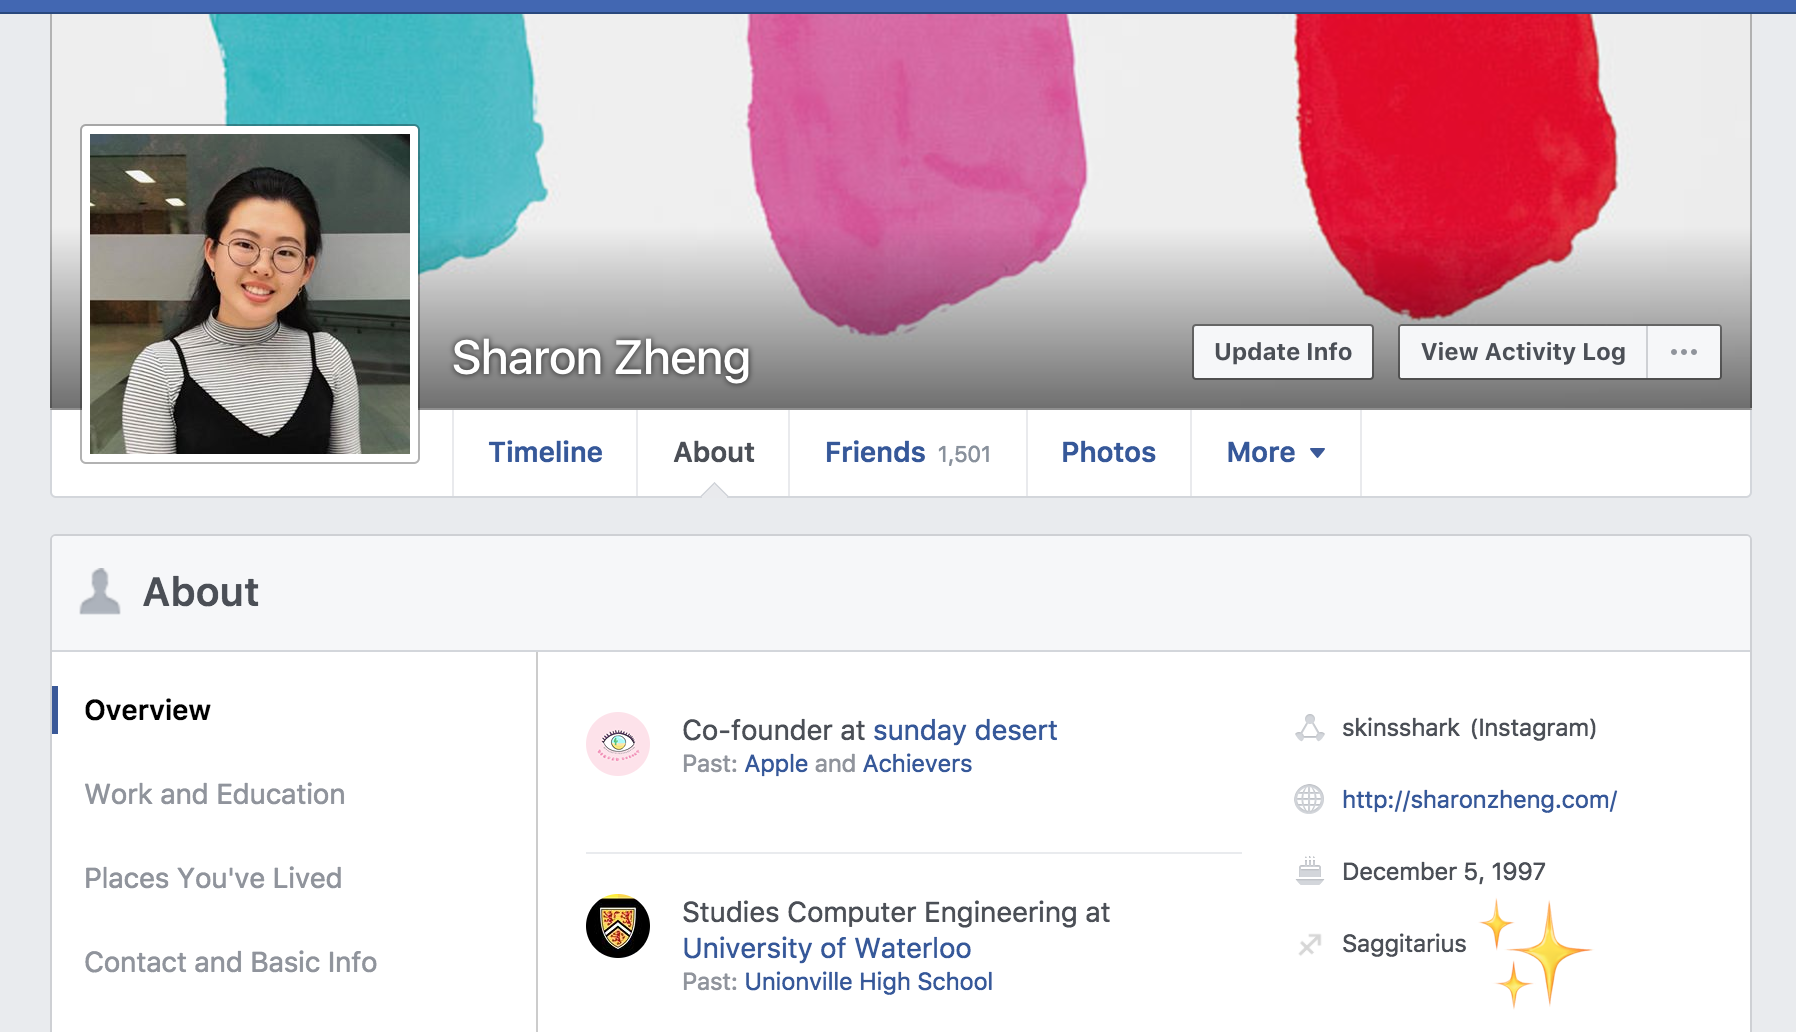
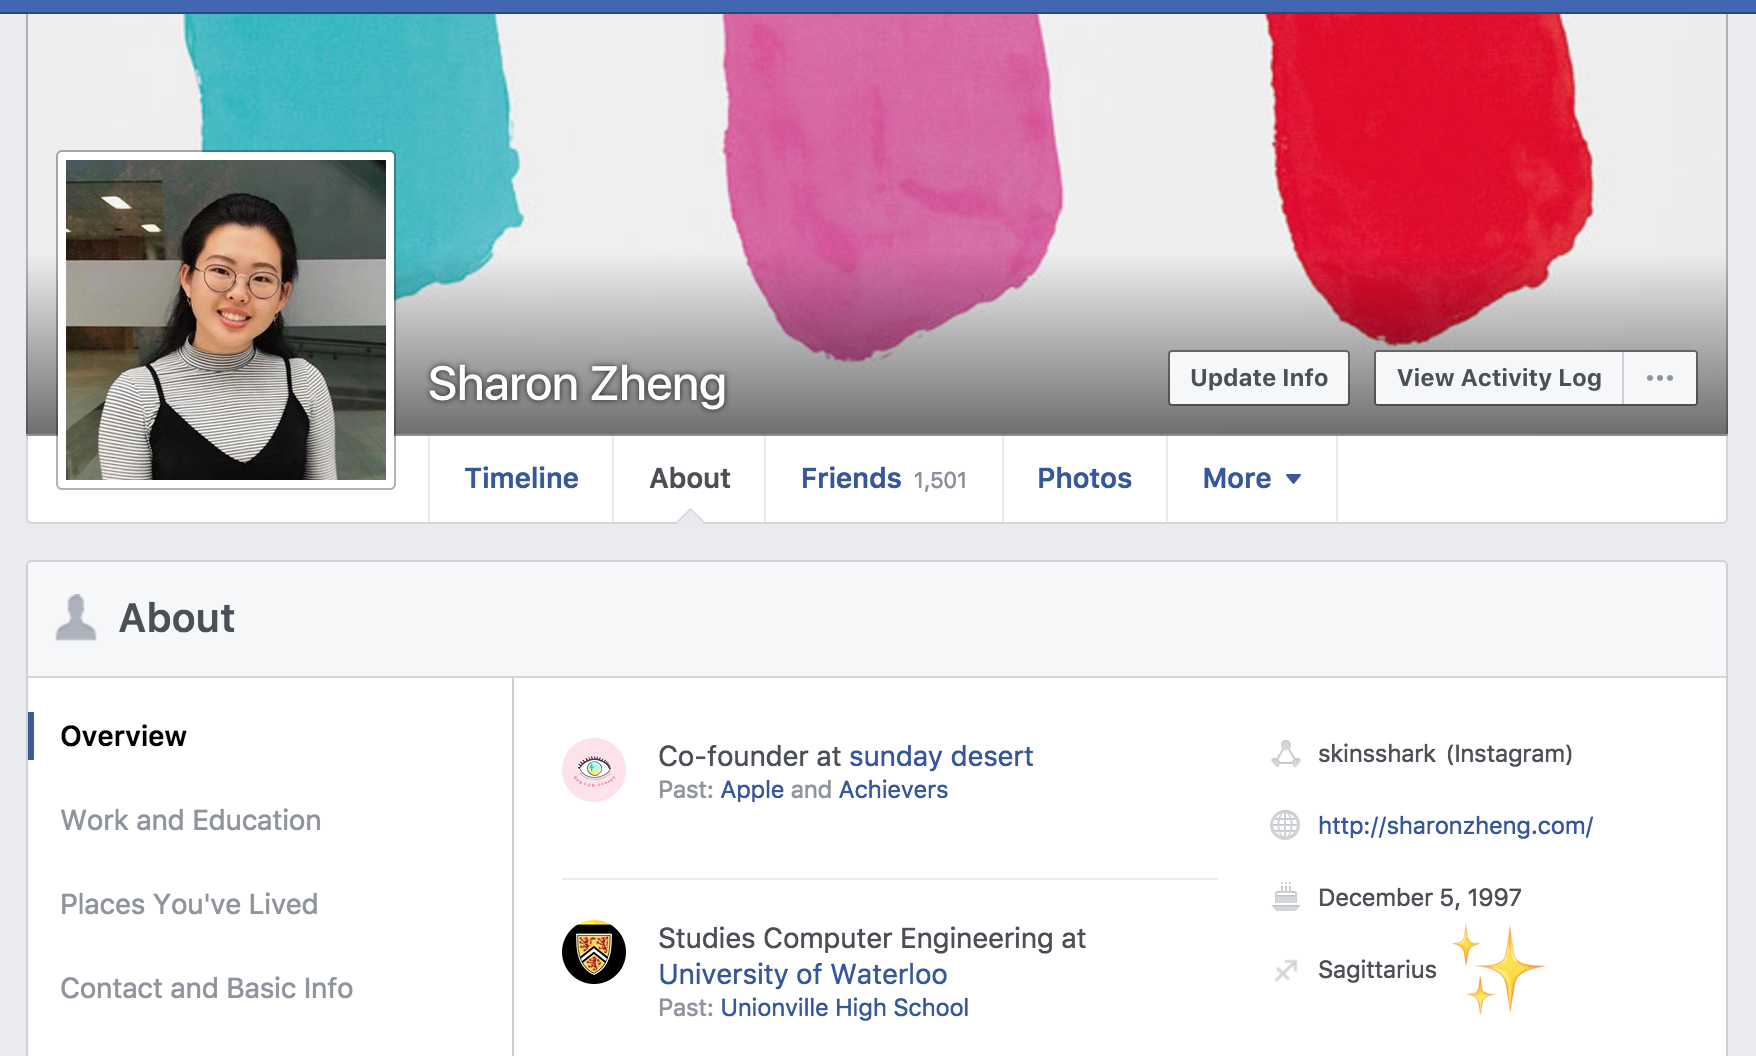
fix typo

diff --git a/js/script.js b/js/script.js
@@ -15,7 +15,7 @@ if (bday_icon) {
     9: [22, 'Virgo'],
     10: [22, 'Libra'],
     11: [21, 'Scorpio'],
-    12: [21, 'Saggitarius']
+    12: [21, 'Sagittarius']
   };
 
   const rgx = /([JFMASOND].*[a-z]) (\d{0,2})/;
